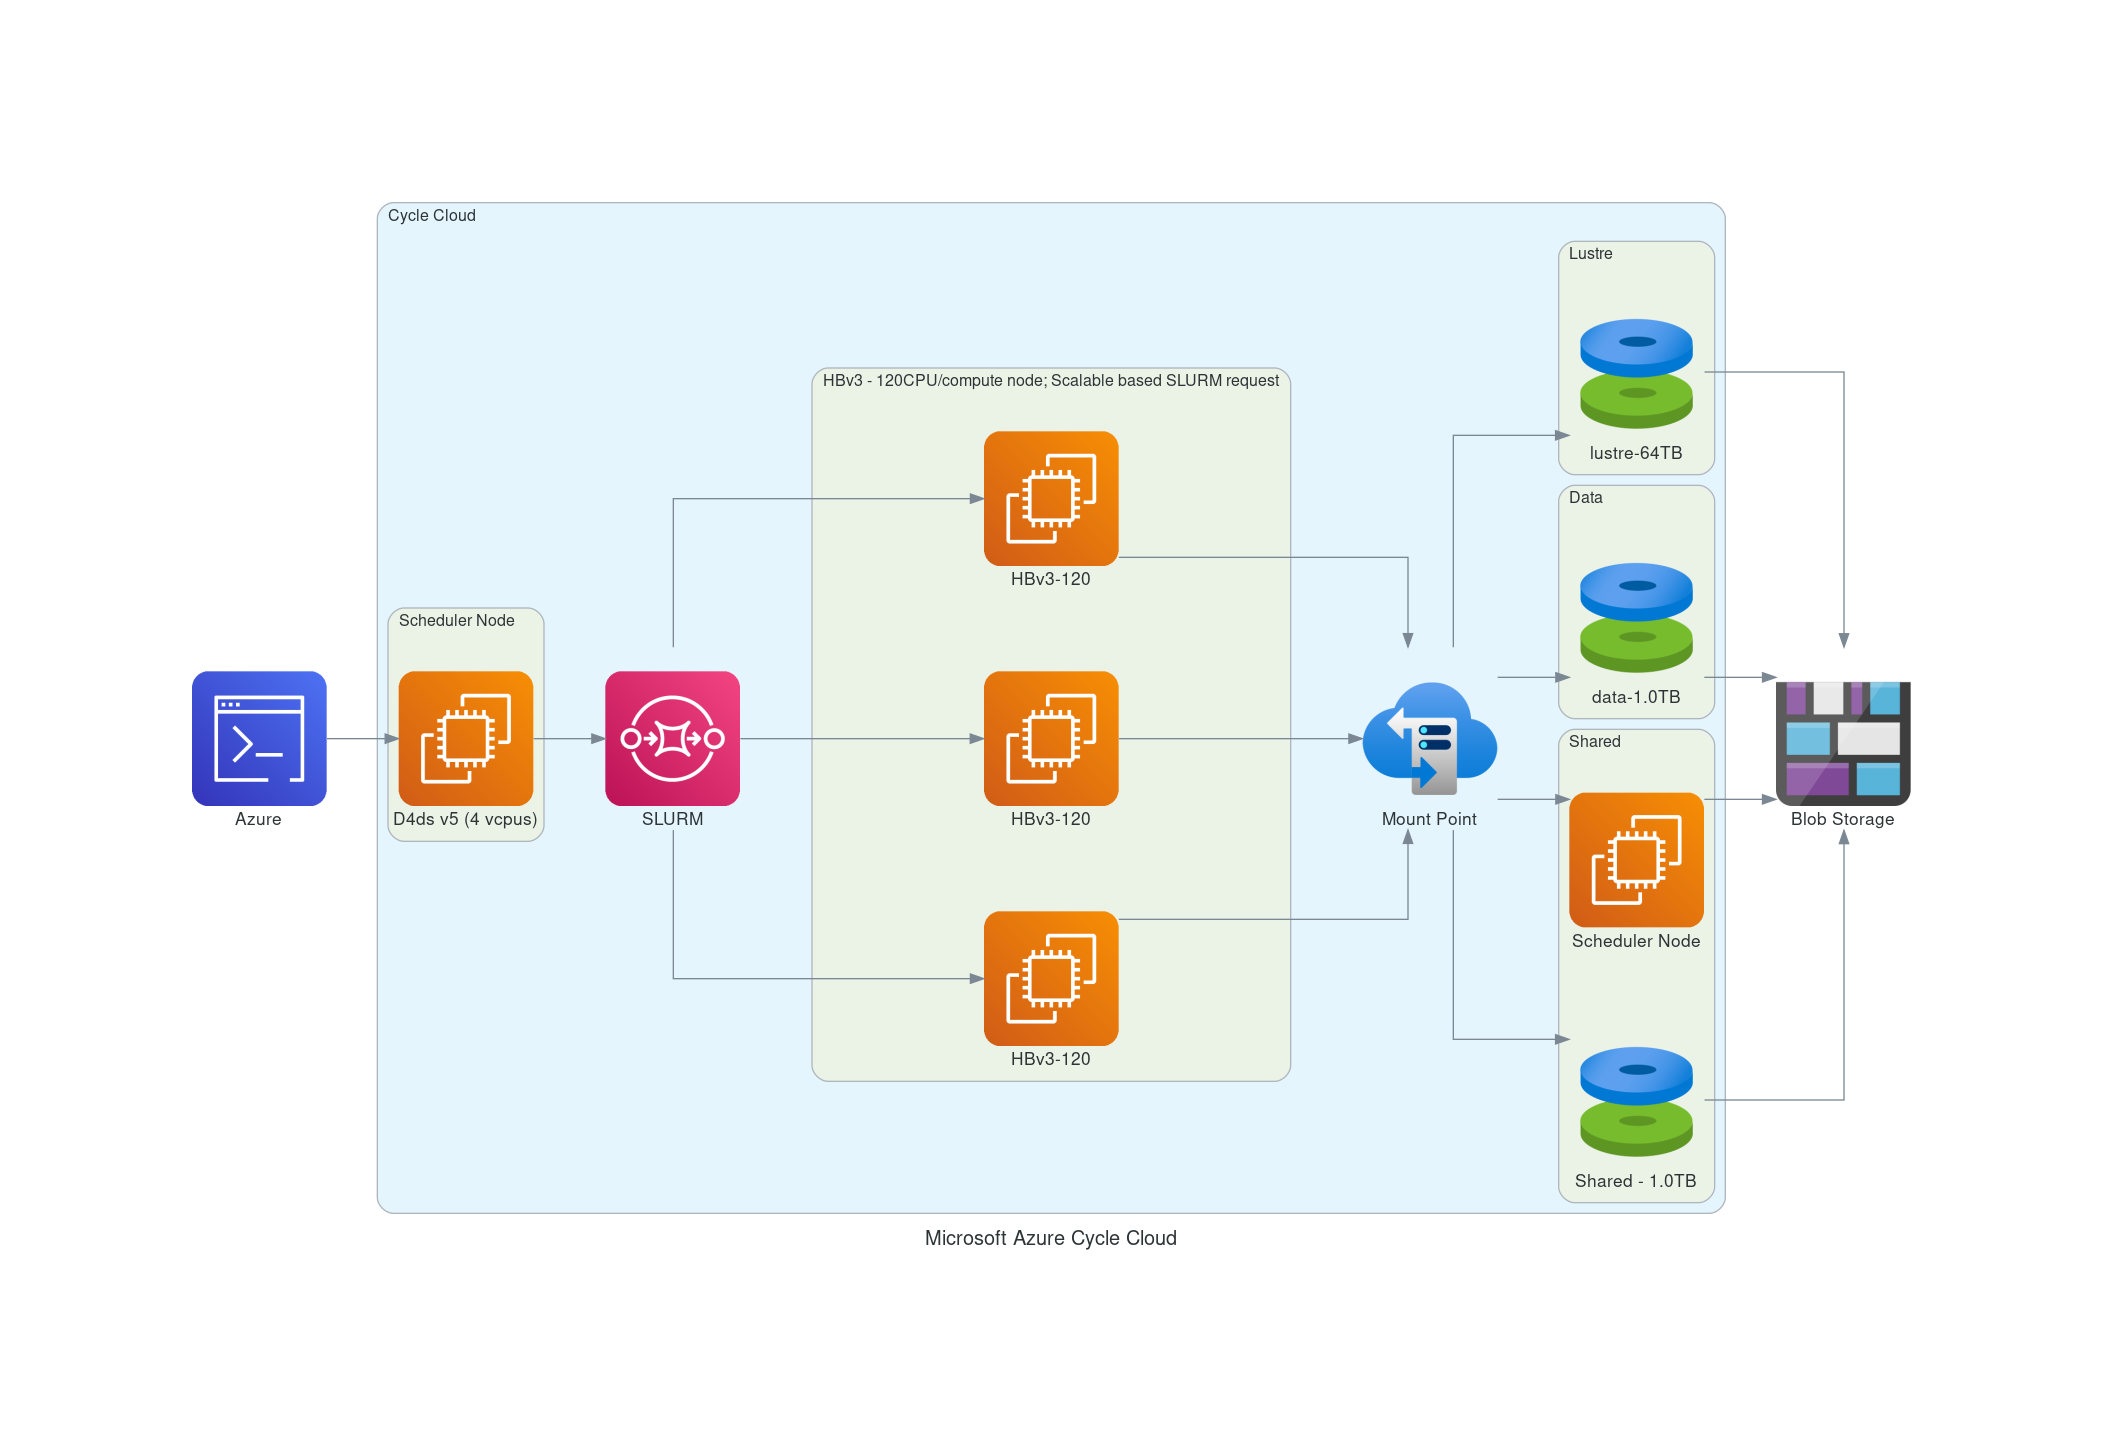
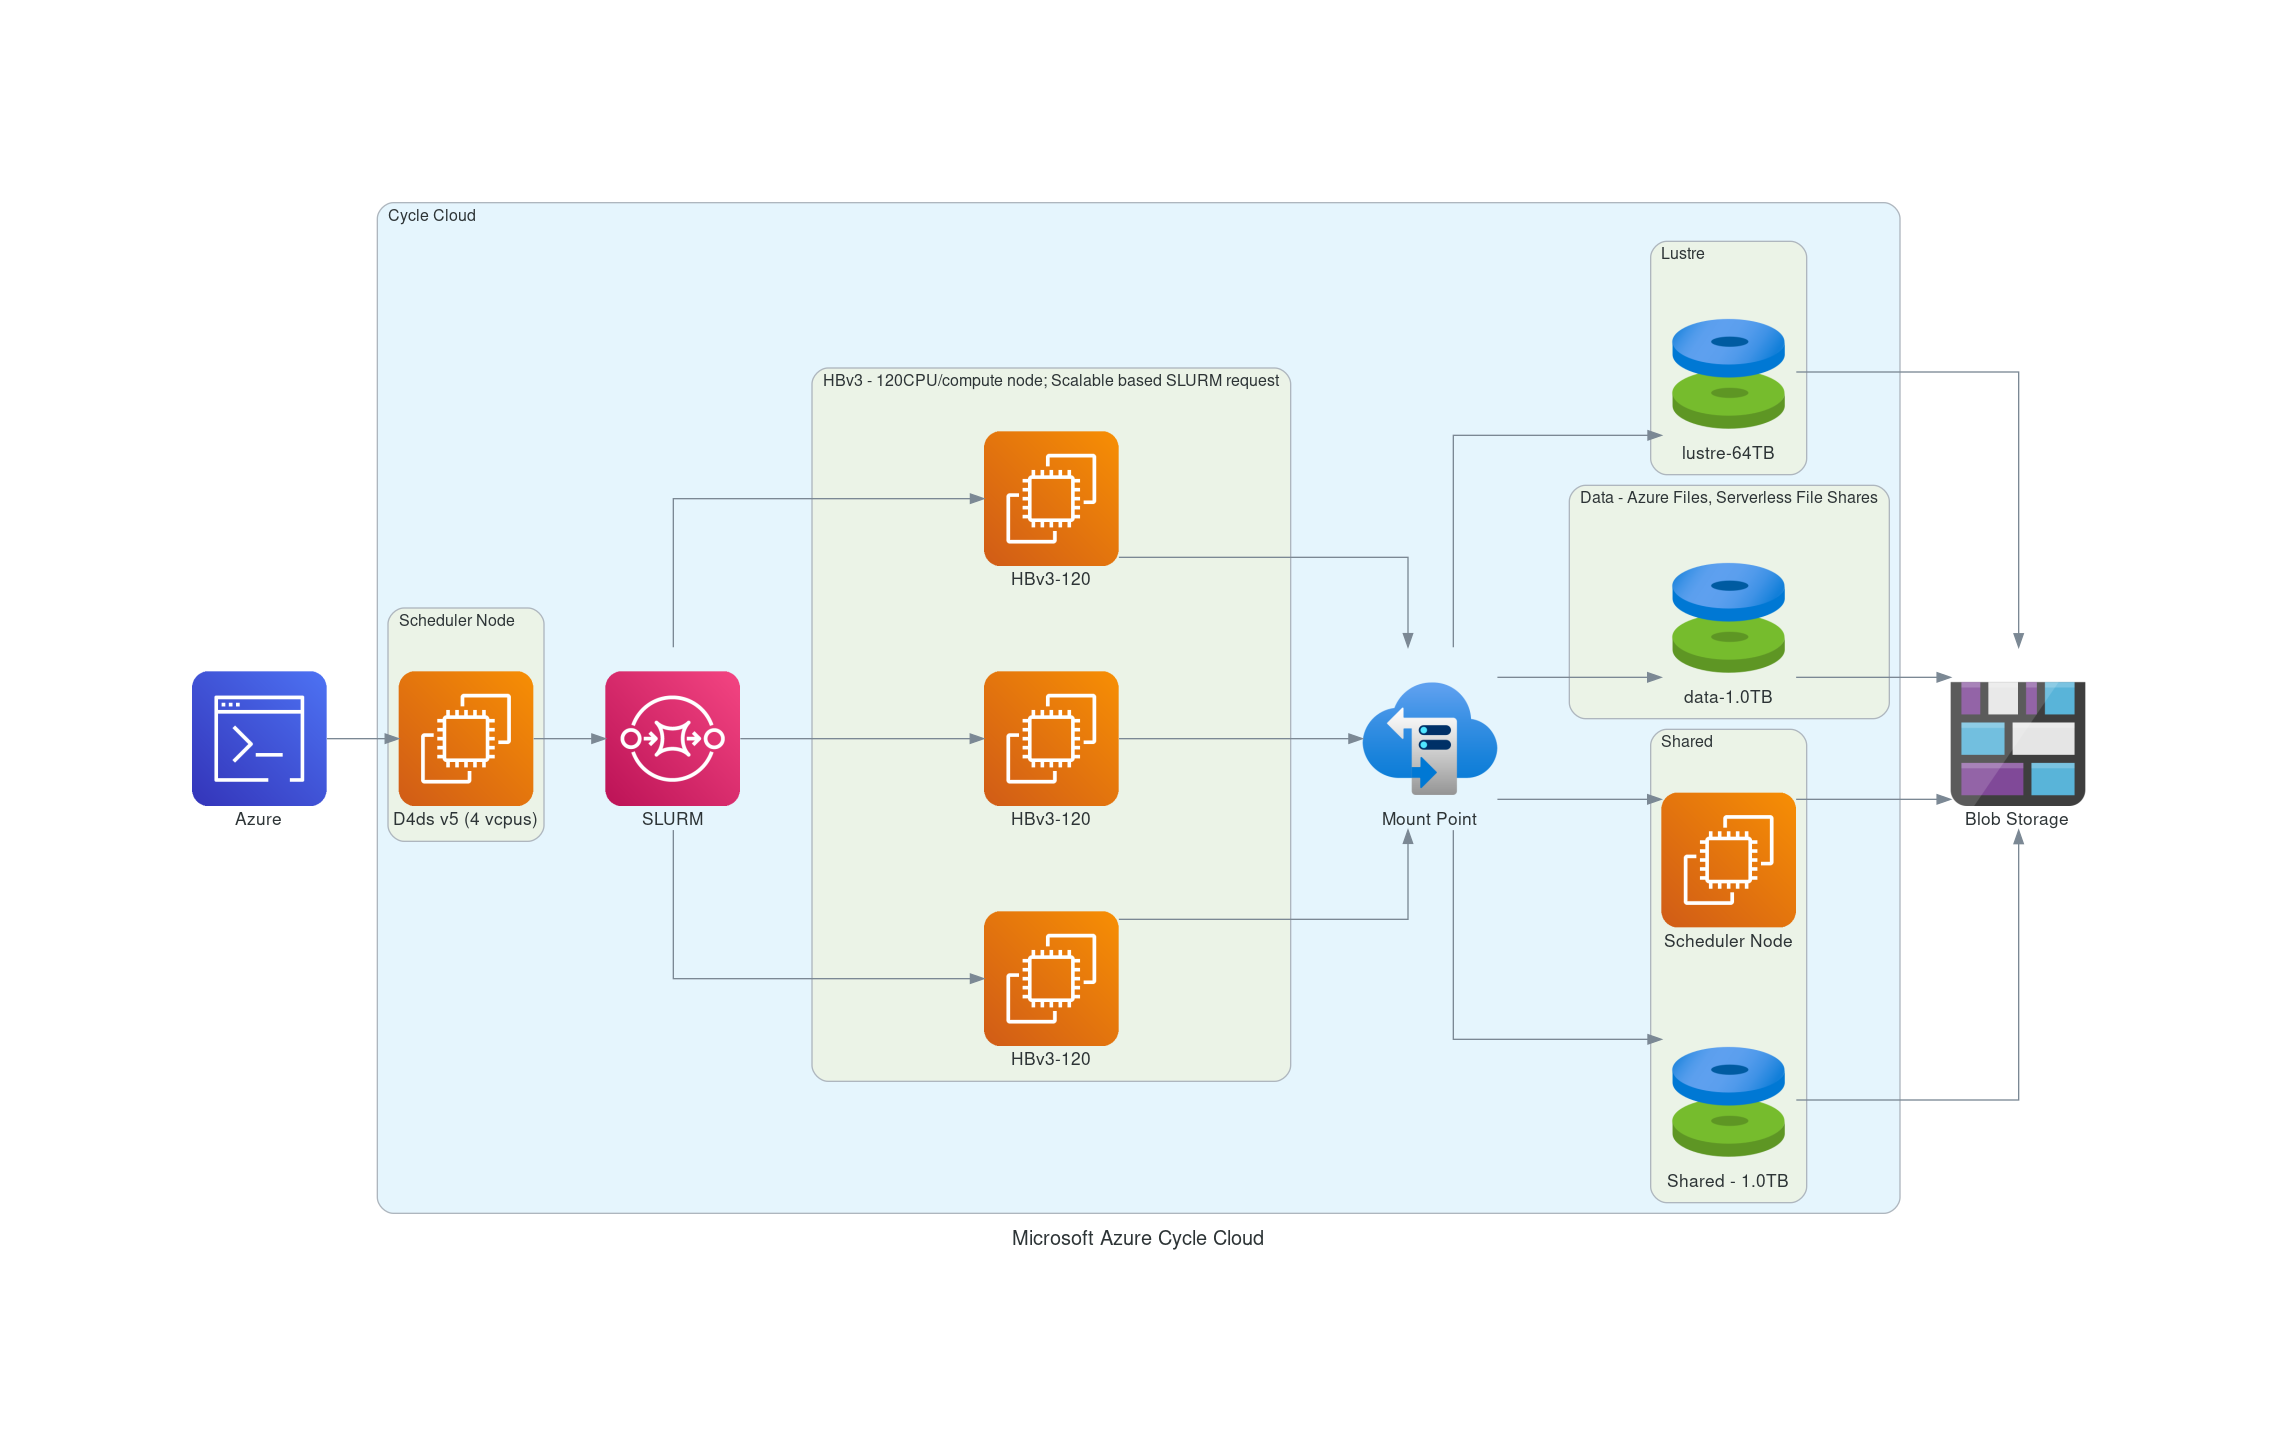
update

diff --git a/docs/diagrams/nested_clusters_cyclecloud.py b/docs/diagrams/nested_clusters_cyclecloud.py
@@ -27,7 +27,7 @@ with Diagram("Microsoft Azure Cycle Cloud", show=False):
              sched = [
                      EC2("Scheduler Node"), 
                      Disks("Shared - 1.0TB")]
-        with Cluster("Data"):
+        with Cluster("Data - Azure Files, Serverless File Shares"):
              volume1 = [
                      Disks("data-1.0TB")]
         with Cluster("Lustre"):
